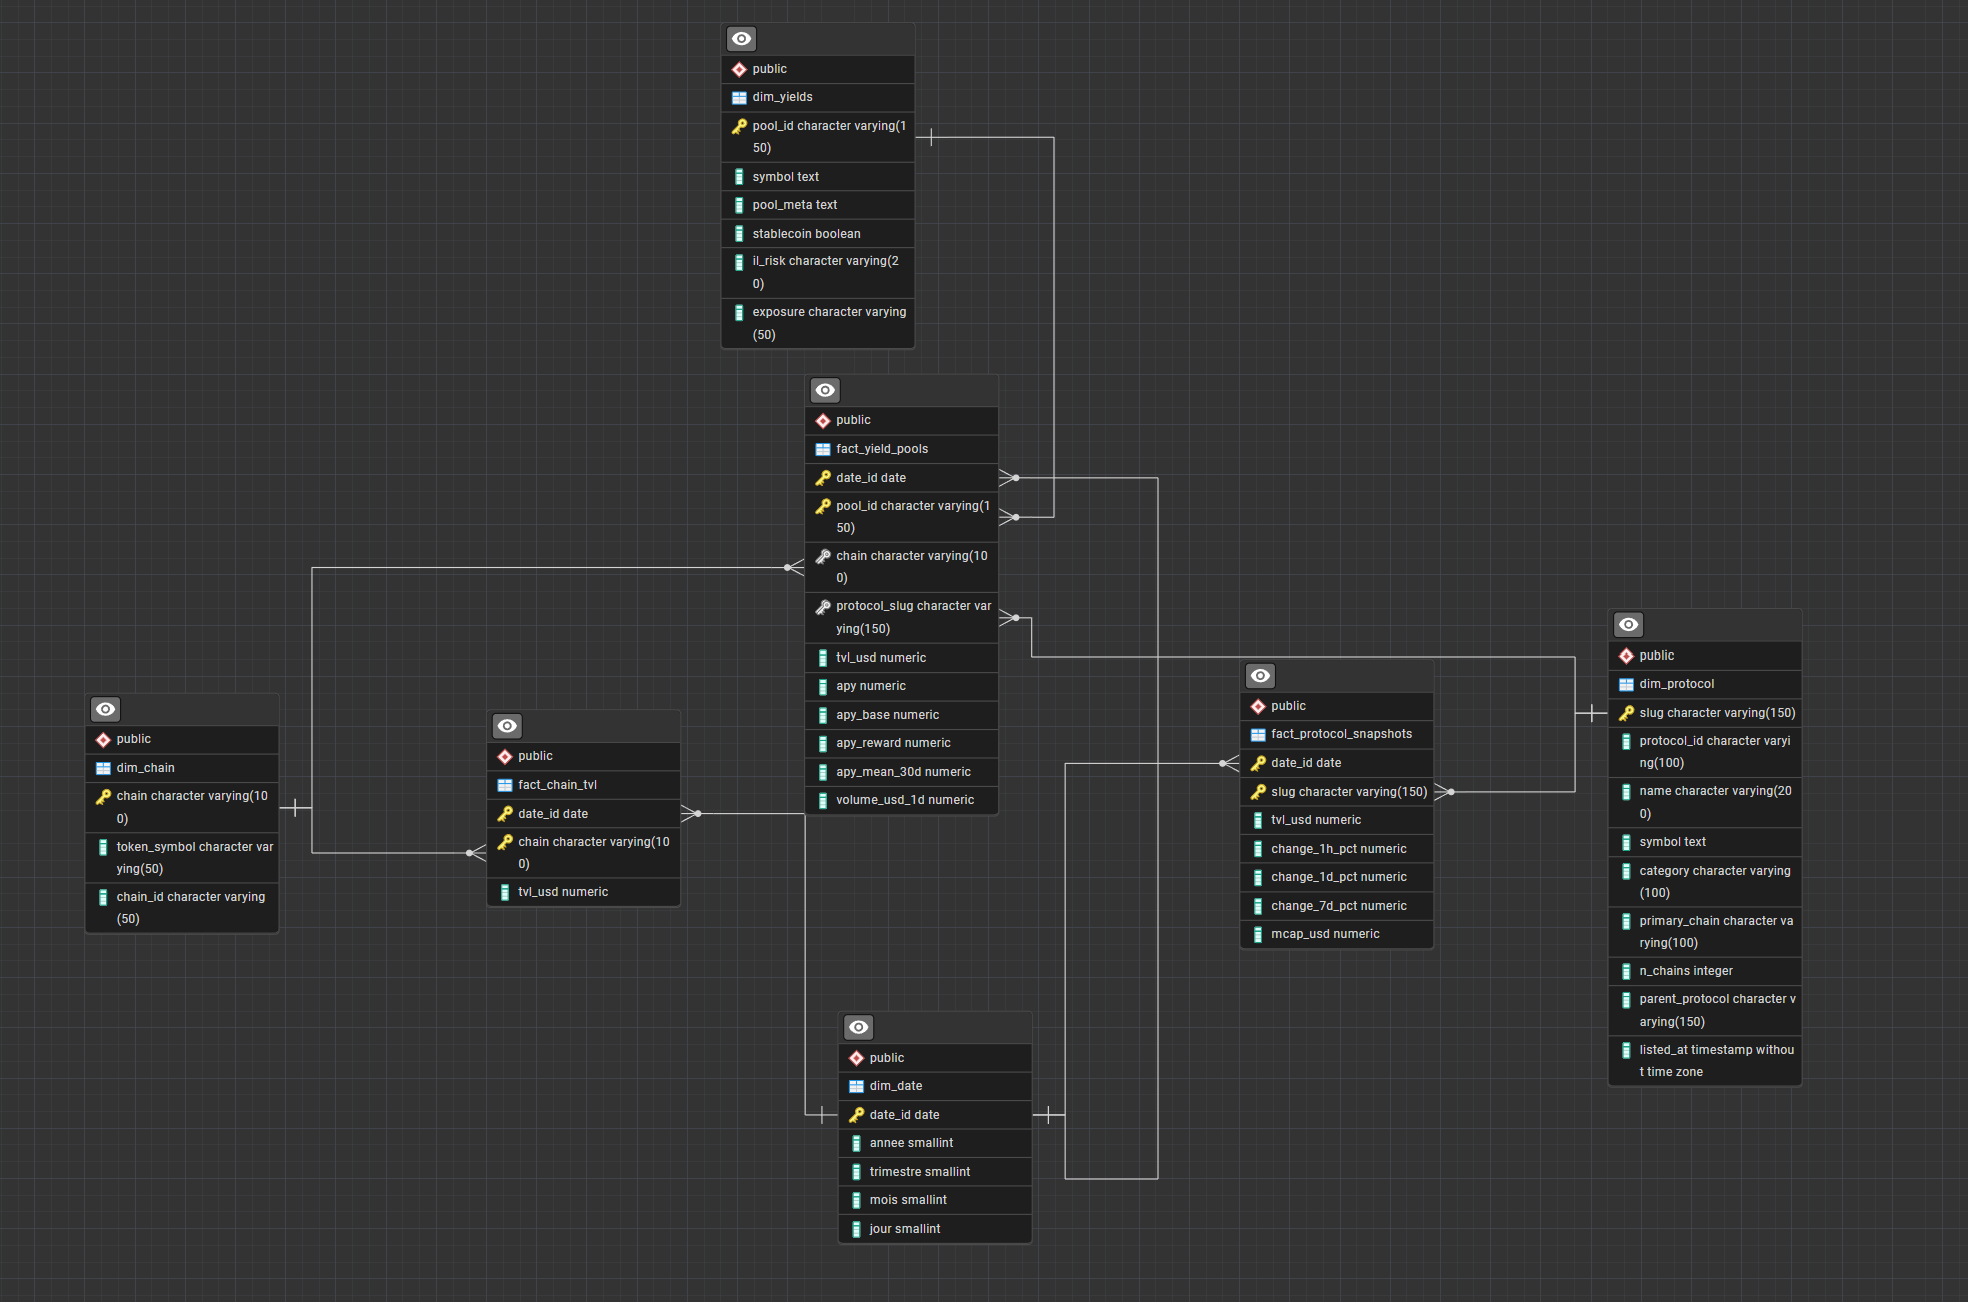
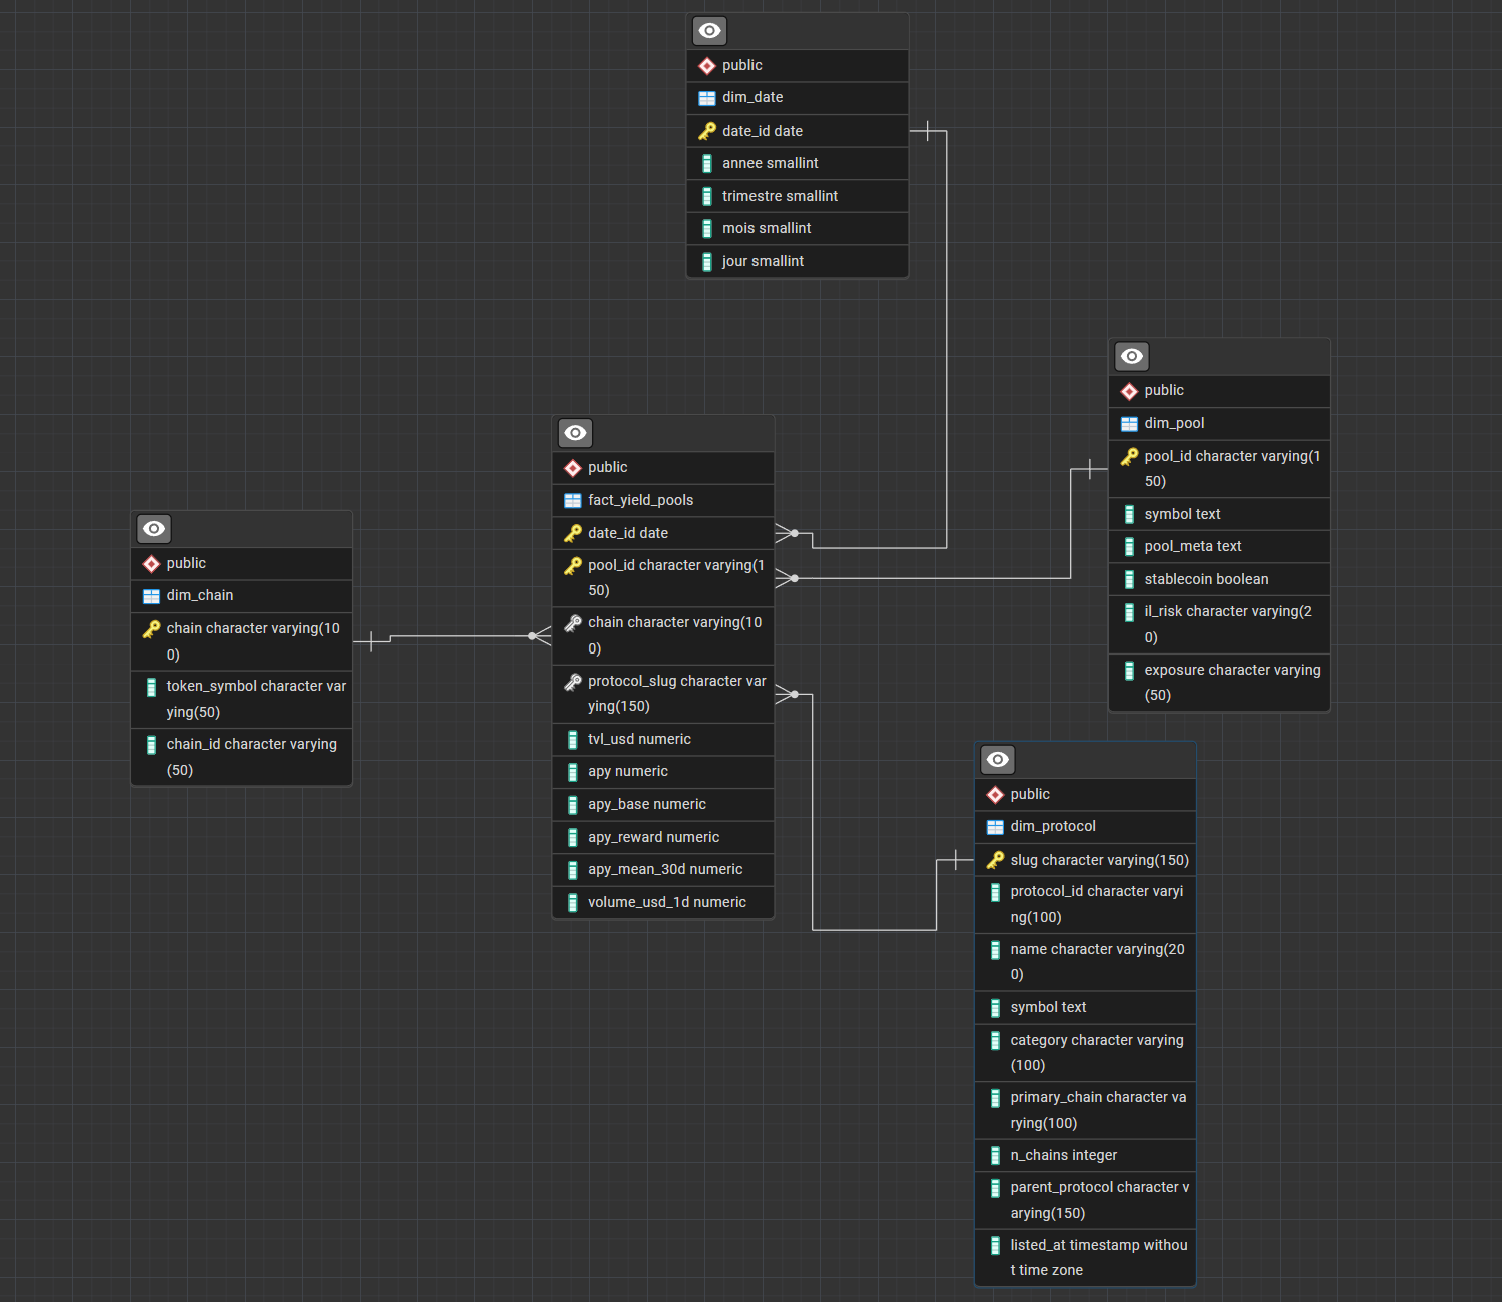
mise en jour des tables et code pour migrer les donnees vers postgreSQL

diff --git a/scripts/load_to_postgres.py b/scripts/load_to_postgres.py
@@ -1,0 +1,93 @@
+from getpass import getpass
+from io import StringIO
+from pathlib import Path
+import pandas as pd
+import pg8000.native
+
+data_dir = Path(__file__).resolve().parent.parent / "data"
+password = getpass("Mot de passe PostgreSQL (utilisateur postgres) : ")
+
+df_chains = pd.read_parquet(data_dir / "chains_snapshots.parquet")
+df_protocols = pd.read_parquet(data_dir / "protocols_snapshots.parquet")
+df_yields = pd.read_parquet(data_dir / "yield_pools_snapshots.parquet")
+
+df_protocols = df_protocols[df_protocols["category"] != "CEX"].copy()
+dim_protocol = (
+    df_protocols.sort_values("snapshot_date")
+    .drop_duplicates(subset=["slug"], keep="last")
+    [["slug", "protocol_id", "name", "symbol", "category", "primary_chain", "n_chains", "parent_protocol", "listed_at"]]
+    .copy()
+)
+dim_protocol["n_chains"] = dim_protocol["n_chains"].astype("Int64")
+
+valid_slugs = set(dim_protocol["slug"])
+avant = len(df_yields)
+df_yields = df_yields[df_yields["project"].isin(valid_slugs)].copy()
+print(f"Pools conservés (pure DeFi reliée) : {len(df_yields)} / {avant}")
+
+df_yields["date_id"] = pd.to_datetime(df_yields["snapshot_date"]).dt.date
+
+unique_dates = df_yields["date_id"].dropna().drop_duplicates()
+dt = pd.to_datetime(unique_dates)
+dim_date = pd.DataFrame({
+    "date_id": unique_dates.values,
+    "annee": dt.dt.year.values,
+    "trimestre": dt.dt.quarter.values,
+    "mois": dt.dt.month.values,
+    "jour": dt.dt.day.values,
+})
+
+chains_meta = (
+    df_chains.sort_values("snapshot_date")
+    .drop_duplicates(subset=["chain"], keep="last")[["chain", "token_symbol", "chain_id"]]
+)
+dim_chain = (
+    pd.DataFrame({"chain": df_yields["chain"].dropna().drop_duplicates()})
+    .merge(chains_meta, on="chain", how="left")
+)
+
+dim_pool = (
+    df_yields.sort_values("date_id")
+    .drop_duplicates(subset=["pool_id"], keep="last")
+    [["pool_id", "symbol", "pool_meta", "stablecoin", "il_risk", "exposure"]]
+)
+
+fact_yield_pools = (
+    df_yields.rename(columns={"project": "protocol_slug"})
+    [["date_id", "pool_id", "chain", "protocol_slug", "tvl_usd", "apy", "apy_base", "apy_reward", "apy_mean_30d", "volume_usd_1d"]]
+    .drop_duplicates(subset=["date_id", "pool_id"], keep="last")
+    .copy()
+)
+for col in ["tvl_usd", "volume_usd_1d"]:
+    fact_yield_pools.loc[fact_yield_pools[col] < 0, col] = None
+
+tables = [
+    ("dim_date", dim_date),
+    ("dim_chain", dim_chain),
+    ("dim_protocol", dim_protocol),
+    ("dim_pool", dim_pool),
+    ("fact_yield_pools", fact_yield_pools),
+]
+
+con = pg8000.native.Connection(
+    user="postgres",
+    password=password,
+    host="localhost",
+    #changer le port si different
+    port=5433,
+    database="defi_analytics",
+)
+
+try:
+    con.run("START TRANSACTION")
+    con.run("TRUNCATE fact_yield_pools, dim_pool, dim_protocol, dim_chain, dim_date;")
+    for name, df in tables:
+        buf = StringIO()
+        df.to_csv(buf, index=False)
+        buf.seek(0)
+        cols = ", ".join(df.columns)
+        con.run(f"COPY {name} ({cols}) FROM STDIN WITH (FORMAT CSV, HEADER TRUE)", stream=buf)
+        print(f"{name} : {len(df)} lignes importées")
+    con.run("COMMIT")
+finally:
+    con.close()
